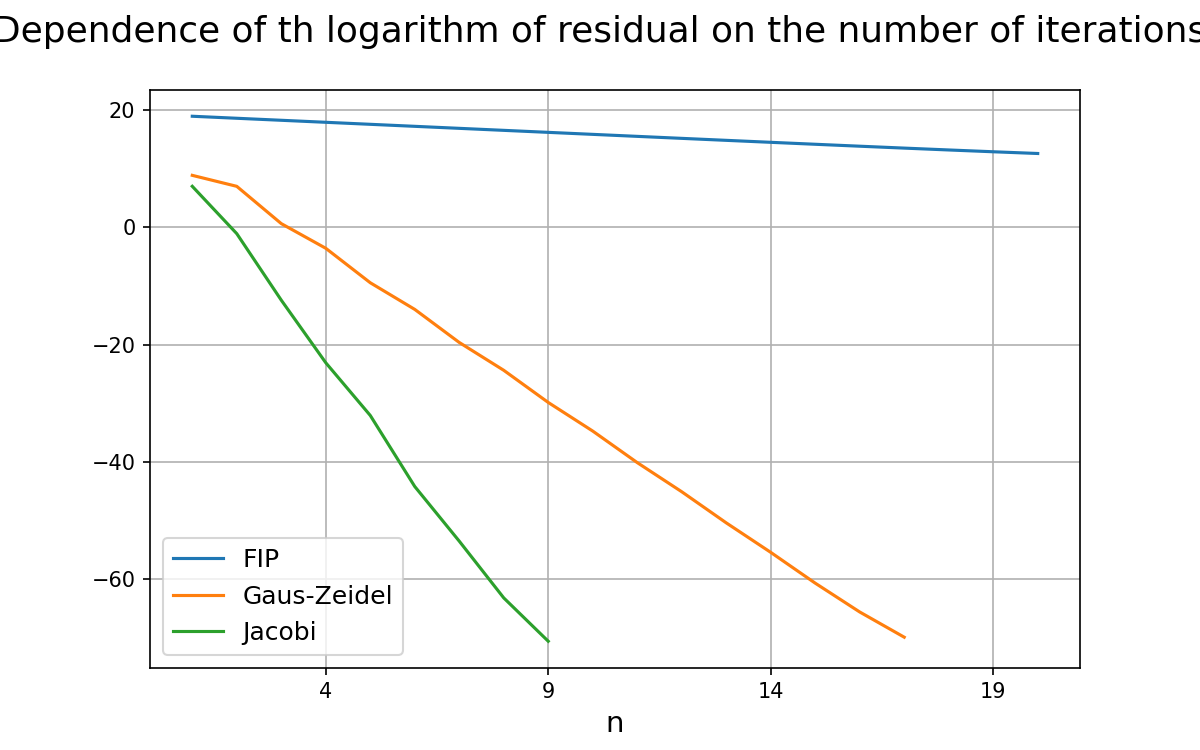
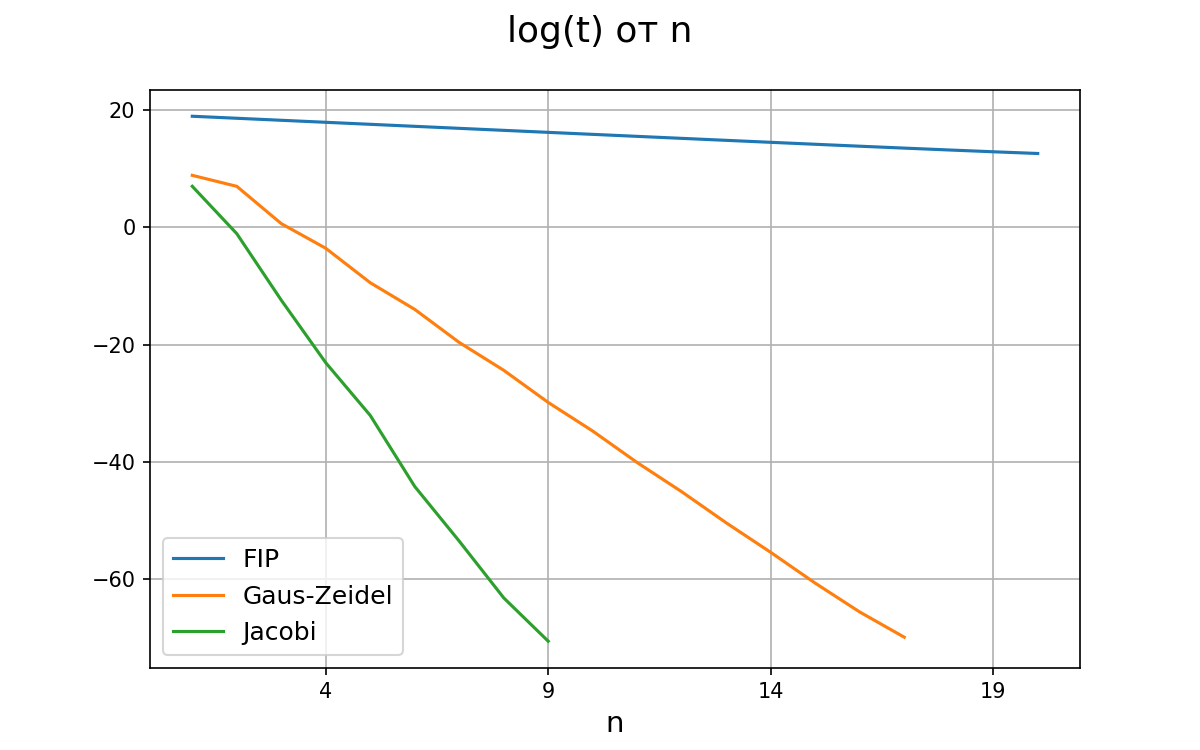
6

Changed region(s): [[0.0, 0.0307, 1.0, 0.0613]]

diff --git a/work_1/main.py b/work_1/main.py
@@ -12,7 +12,7 @@ n3 = np.array([float(item) for item in (open("n3.txt", "r+"))])
 
 fig, ax = plt.subplots(figsize=(8, 5), dpi=150)
 
-fig.suptitle("Dependence of th logarithm of residual on the number of iterations",
+fig.suptitle("log(t) от n",
              fontsize='xx-large')
 
 plt.grid(True)
